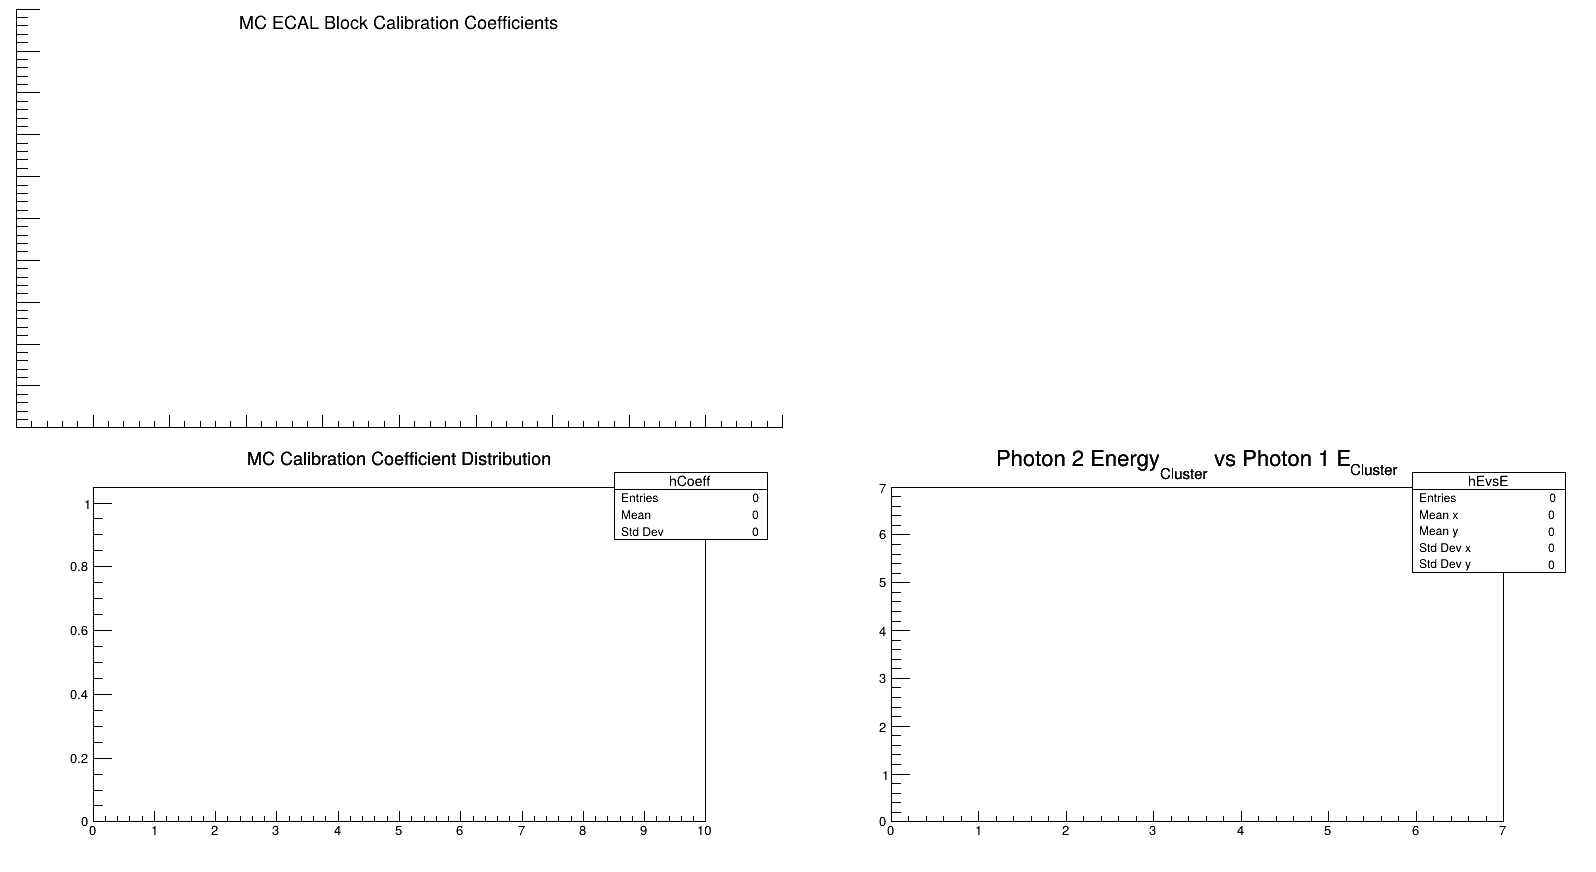
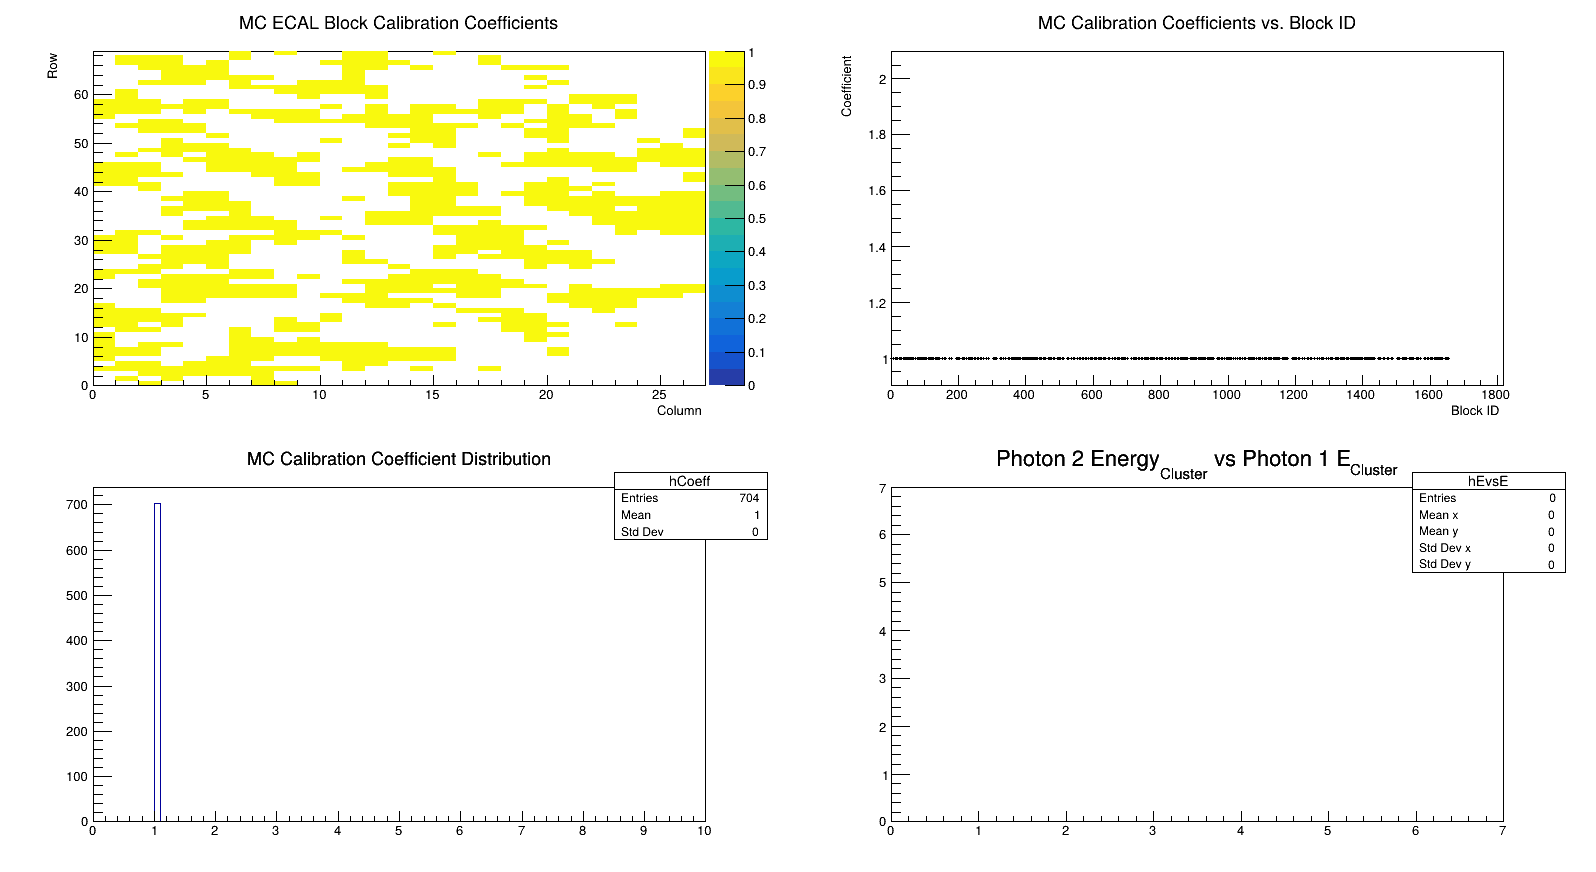
MC_ecal_pi0calib runs but plots missing

diff --git a/MC_ecal_pi0calib.C b/MC_ecal_pi0calib.C
@@ -402,7 +402,12 @@ void MC_ecal_pi0calib() {
     Double_t ecal_x[nbclusmax];
     Double_t ecal_y[nbclusmax];
 
-    ch->SetBranchStatus("*", 0); // disable all Branches
+    ch->SetBranchStatus("*", 0);  // disable all
+    ch->SetBranchStatus("earm.ecal.*", 1);
+    ch->SetBranchStatus("Ndata.earm.ecal.*", 1);
+
+
+
     ch->SetBranchAddress("earm.ecal.clus.e", &ecal_e);
     ch->AddBranchToCache("earm.ecal.clus.e", kTRUE);
     ch->SetBranchAddress("earm.ecal.clus.x", &ecal_x);
@@ -440,14 +445,6 @@ void MC_ecal_pi0calib() {
     ch->AddBranchToCache("Ndata.earm.ecal.goodblock.e", kTRUE);
     ch->SetBranchAddress("earm.ecal.clus.nblk", &clus_nblk);
     ch->AddBranchToCache("earm.ecal.clus.nblk", kTRUE);
-    // ch->SetBranchAddress("earm.ecal.clus.id", &clus_id);
-    // ch->AddBranchToCache("earm.ecal.clus.id", kTRUE);
-    // ch->SetBranchAddress("earm.ecal.clus.row", &clus_row);
-    // ch->AddBranchToCache("earm.ecal.clus.row", kTRUE);
-    // ch->SetBranchAddress("earm.ecal.clus.col", &clus_col);
-    // ch->AddBranchToCache("earm.ecal.clus.col", kTRUE);
-    //ch->SetBranchAddress("earm.ecal.clus.eblk", &clus_eblk);
-    //ch->SetBranchAddress("earm.ecal.idblk", &clus_idblk);
     ch->SetBranchAddress("earm.ecal.goodblock.e", goodblock_e);
     ch->AddBranchToCache("earm.ecal.goodblock.e", kTRUE);
     ch->SetBranchAddress("earm.ecal.goodblock.id", goodblock_id);
@@ -458,8 +455,16 @@ void MC_ecal_pi0calib() {
     ch->AddBranchToCache("earm.ecal.goodblock.row", kTRUE);
     ch->SetBranchAddress("earm.ecal.goodblock.cid", goodblock_cid);
     ch->AddBranchToCache("earm.ecal.goodblock.cid", kTRUE);
-
-
+    // ch->SetBranchAddress("earm.ecal.clus.id", &clus_id);
+    // ch->AddBranchToCache("earm.ecal.clus.id", kTRUE);
+    // ch->SetBranchAddress("earm.ecal.clus.row", &clus_row);
+    // ch->AddBranchToCache("earm.ecal.clus.row", kTRUE);
+    // ch->SetBranchAddress("earm.ecal.clus.col", &clus_col);
+    // ch->AddBranchToCache("earm.ecal.clus.col", kTRUE);
+    //ch->SetBranchAddress("earm.ecal.clus.eblk", &clus_eblk);
+    //ch->SetBranchAddress("earm.ecal.idblk", &clus_idblk);
+    
+    
     Double_t ngoodADChits = 0;
     // ch->SetBranchAddress("earm.ecal.ngoodADChits", ngoodADChits);
     // ch->AddBranchToCache("earm.ecal.ngoodADChits",kTRUE);
